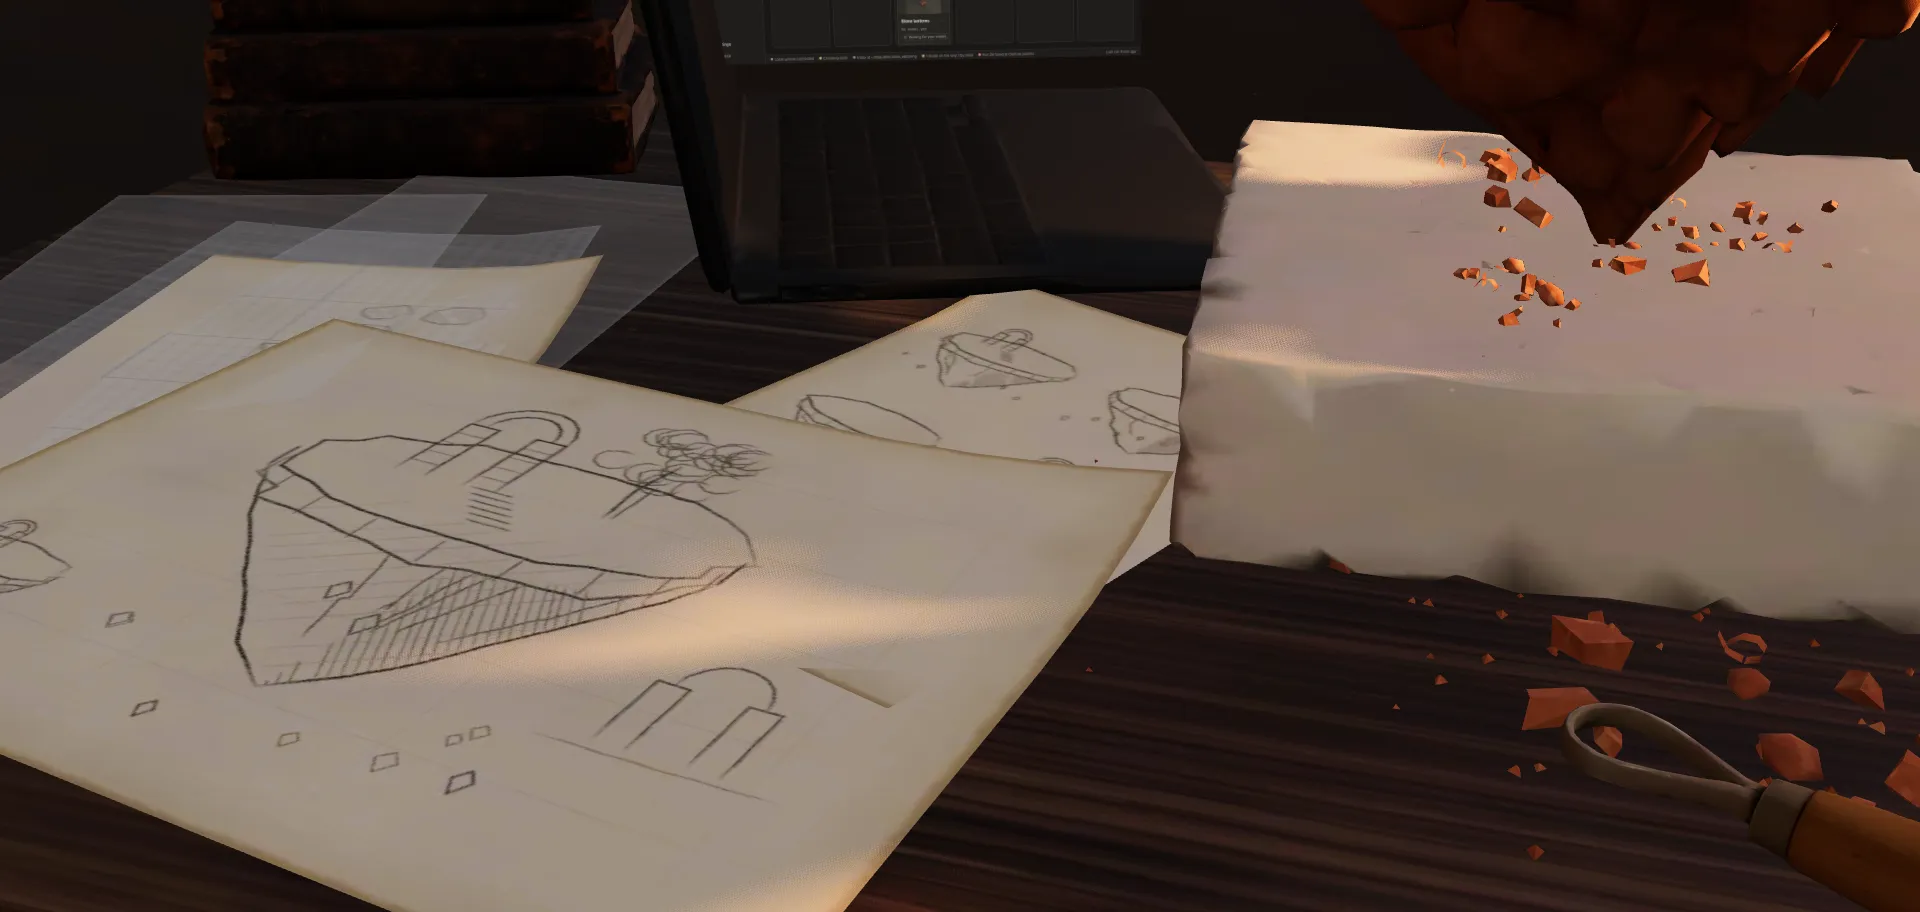
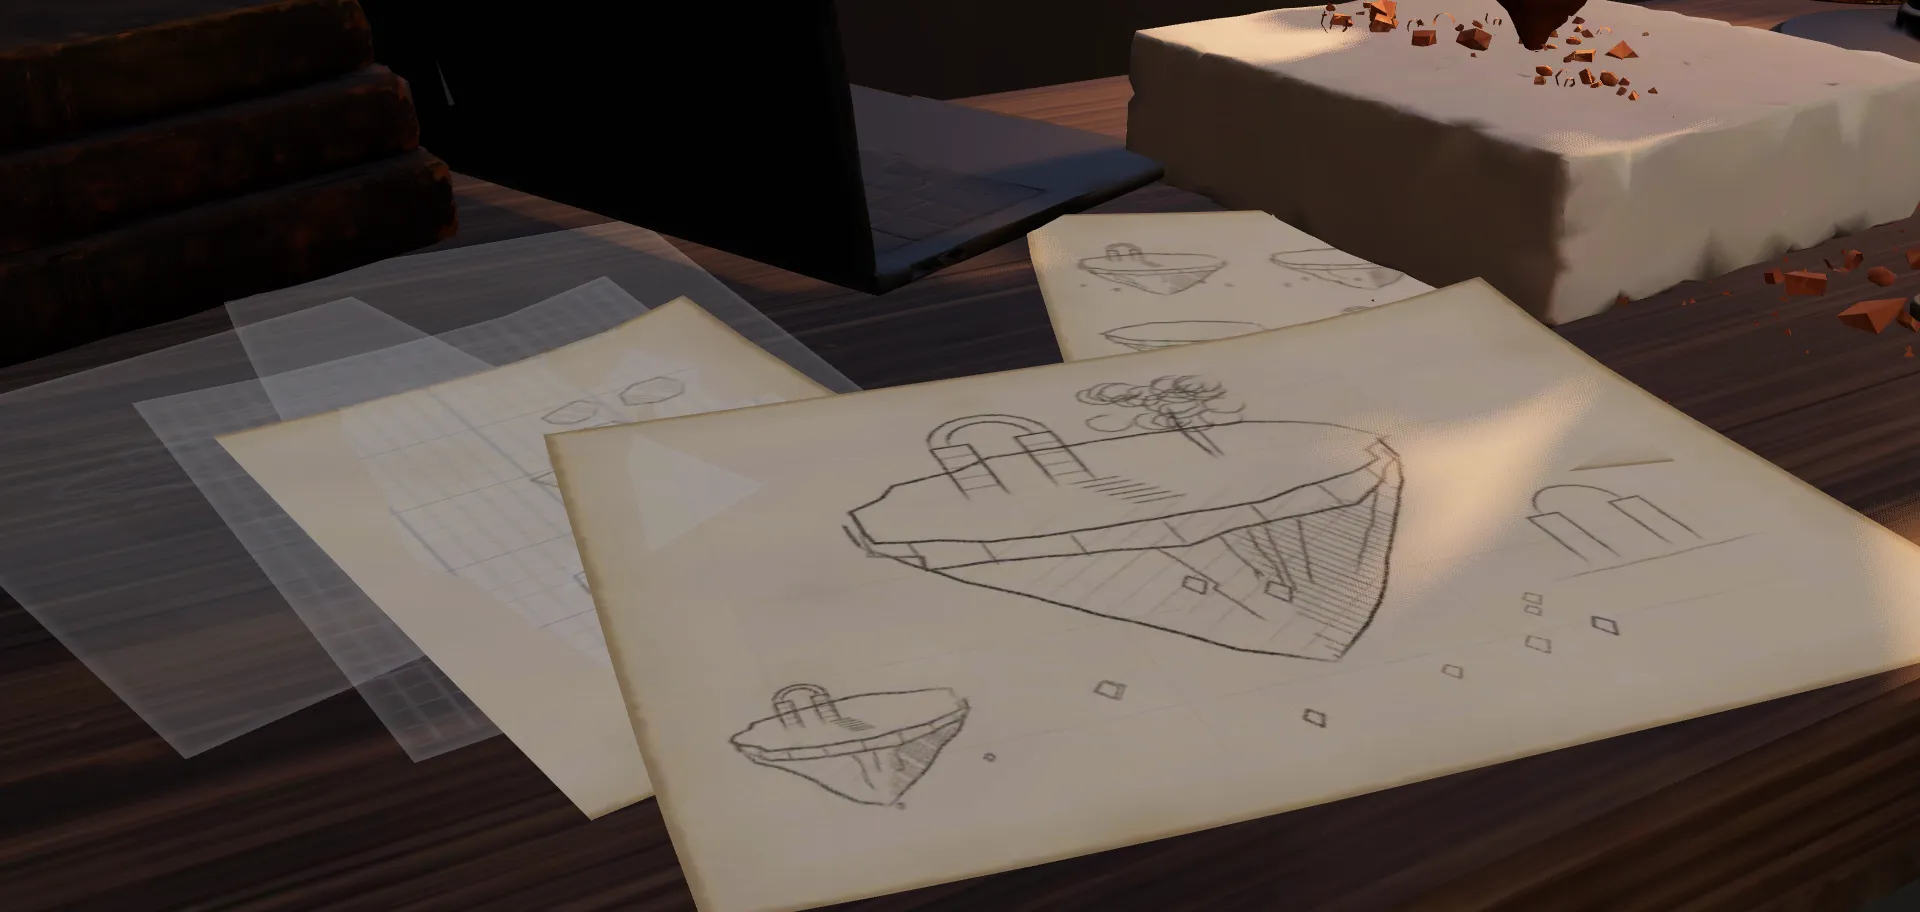
feat(site): frame the concept stop from the left of the paper
The camera sweeps back left past the plinth onto the sketch, so the paper fills

the frame without the plinth beside the copy. The posters follow.

diff --git a/apps/site/src/scene/cameras.ts b/apps/site/src/scene/cameras.ts
@@ -54,18 +54,20 @@ export const STOPS: readonly CameraStop[] = [
     move: { dolly: 0.1 },
     copy: 'left',
   },
-  // Swoops down to the right, low over the tools, and turns back onto the
-  // paper sketch: a low dolly in that tilts further down.
+  // Swoops down to the right, low over the tools and past the plinth, then
+  // sweeps back left onto the paper sketch: a low dolly in that tilts
+  // further down.
   {
     id: 'concept',
-    position: [-0.08, 1.2, 0.64],
-    target: [-0.24, 0.92, 0.1],
+    position: [-0.72, 1.18, 0.6],
+    target: [-0.44, 0.9, 0.1],
     fov: 30,
     move: { dolly: 0.18, rise: 0.05 },
     via: [{ at: -0.55, position: [0.3, 1.07, 0.7], target: [-0.16, 0.93, 0.2] }],
-    copy: 'right',
+    copy: 'left',
   },
-  // Skims the paper, then trucks left along it to the pinned prints.
+  // Crosses back over the paper, low, then trucks left along it to the
+  // pinned prints with the book stack behind them.
   {
     id: 'refs',
     position: [-0.36, 1.03, 0.38],
